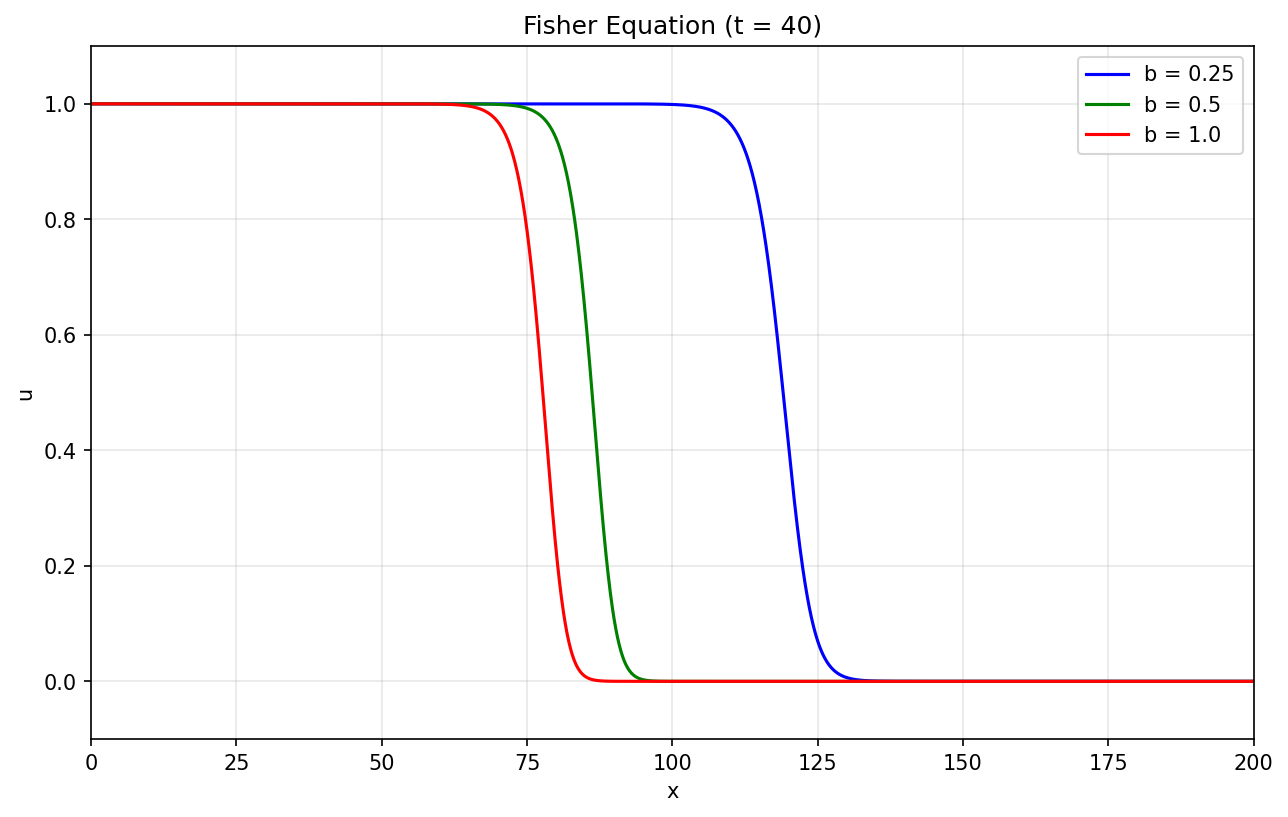
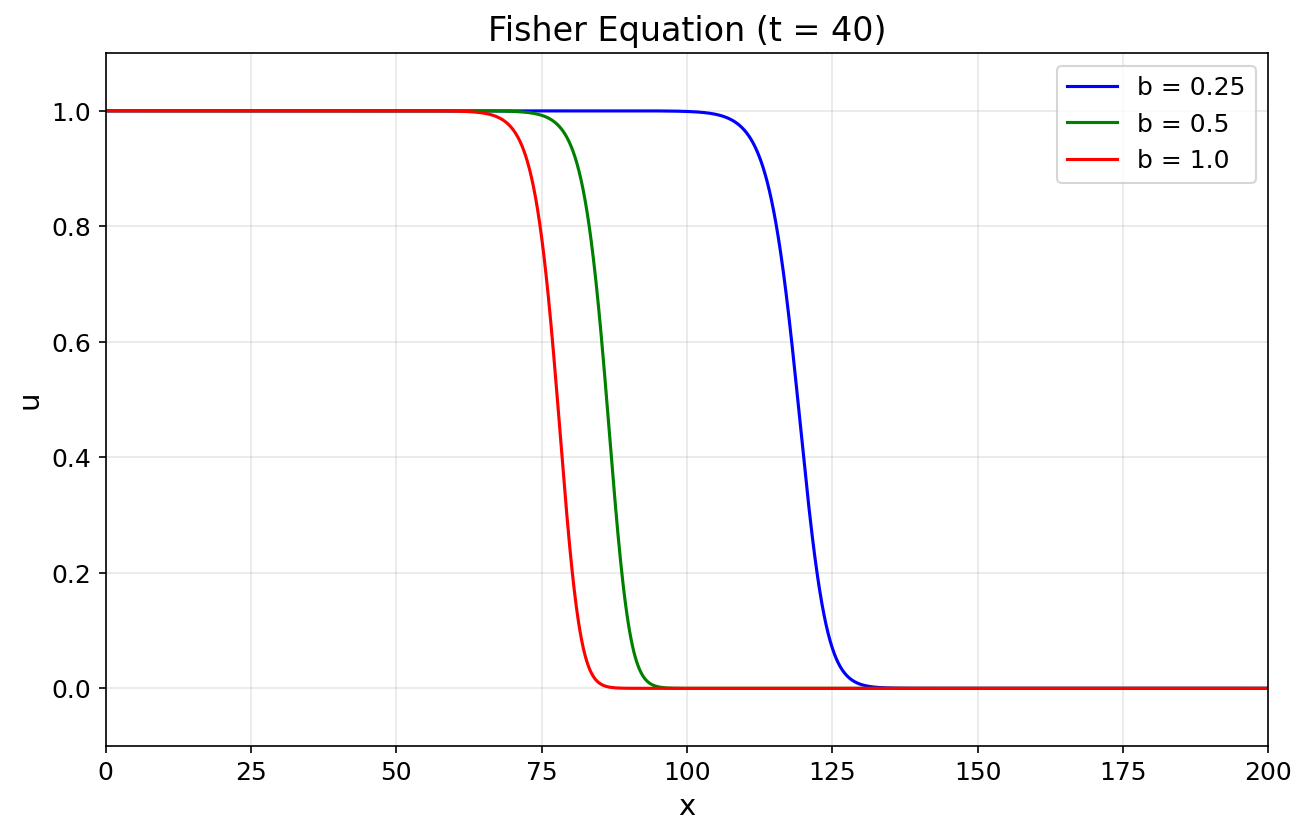
コード完成

diff --git a/7/task2.py b/7/task2.py
@@ -1,7 +1,24 @@
 import math
 import matplotlib.pyplot as plt
 from pathlib import Path
-from typing import List, Tuple
+from typing import List, Tuple, Optional
+
+def find_u_half_point(x_vals: List[float], u_vals: List[float]) -> Optional[float]:
+    """
+    u = 0.5 となる x 座標を線形補間で求める。
+    複数ある場合は最初に見つかったものを返す。
+    """
+    for i in range(len(u_vals) - 1):
+        # u が 0.5 を跨ぐ点を探す
+        if (u_vals[i] - 0.5) * (u_vals[i+1] - 0.5) <= 0:
+            # 線形補間で x 座標を求める
+            if u_vals[i+1] != u_vals[i]:
+                t = (0.5 - u_vals[i]) / (u_vals[i+1] - u_vals[i])
+                x_half = x_vals[i] + t * (x_vals[i+1] - x_vals[i])
+                return x_half
+            else:
+                return x_vals[i]
+    return None
 
 def u0_fisher(x: float, b: float) -> float:
     """
@@ -142,13 +159,15 @@ def main():
             x_vals, u_vals = all_results[b][t]
             plt.plot(x_vals, u_vals, color=colors[str(b)], label=f'b = {b}', linewidth=1.5)
         
-        plt.xlabel('x')
-        plt.ylabel('u')
-        plt.title(f'Fisher Equation (t = {t})')
-        plt.legend()
+        plt.xlabel('x', fontsize=14)
+        plt.ylabel('u', fontsize=14)
+        plt.title(f'Fisher Equation (t = {t})', fontsize=16)
+        plt.legend(fontsize=12)
         plt.grid(True, alpha=0.3)
         plt.xlim(0, 200)
         plt.ylim(-0.1, 1.1)
+        plt.xticks(fontsize=12)
+        plt.yticks(fontsize=12)
         
         plt.savefig(output_dir / f"fisher_t{t}.png", dpi=150, bbox_inches='tight')
         plt.close()
@@ -159,17 +178,35 @@ def main():
         plt.figure(figsize=(10, 6))
         time_colors = {0: 'black', 10: 'blue', 20: 'green', 30: 'orange', 40: 'red'}
         
-        for t in times:
+        for idx, t in enumerate(times):
             x_vals, u_vals = all_results[b][t]
             plt.plot(x_vals, u_vals, color=time_colors[t], label=f't = {t}', linewidth=1.5)
+            
+            # u = 0.5 となる点を探してプロット
+            x_half = find_u_half_point(x_vals, u_vals)
+            if x_half is not None:
+                plt.plot(x_half, 0.5, 'o', color='black', markersize=8)
+                # 上下交互に配置（偶数インデックスは上、奇数インデックスは下）
+                if idx % 2 == 0:
+                    y_offset = 0.15
+                else:
+                    y_offset = -0.15
+                plt.annotate(f'({x_half:.2f}, 0.5)', 
+                           xy=(x_half, 0.5), 
+                           xytext=(x_half + 5, 0.5 + y_offset),
+                           fontsize=12,
+                           color='black',
+                           arrowprops=dict(arrowstyle='->', color='black', lw=0.5))
         
-        plt.xlabel('x')
-        plt.ylabel('u')
-        plt.title(f'Fisher Equation (b = {b})')
-        plt.legend()
+        plt.xlabel('x', fontsize=14)
+        plt.ylabel('u', fontsize=14)
+        plt.title(f'Fisher Equation (b = {b})', fontsize=16)
+        plt.legend(fontsize=12)
         plt.grid(True, alpha=0.3)
         plt.xlim(0, 200)
         plt.ylim(-0.1, 1.1)
+        plt.xticks(fontsize=12)
+        plt.yticks(fontsize=12)
         
         plt.savefig(output_dir / f"fisher_b{str(b).replace('.', '_')}.png", dpi=150, bbox_inches='tight')
         plt.close()

diff --git a/7/task3.py b/7/task3.py
@@ -119,6 +119,7 @@ for idx, t in enumerate(output_times_original):
     ax.set_ylabel('$P(x,t)$')
     ax.set_title(f'$t = {t}$')
     ax.set_xlim(-L/2, L/2)
+    ax.set_ylim(0, 1.2)
     ax.grid(True, alpha=0.3)
 
 plt.tight_layout()
@@ -139,6 +140,7 @@ for idx, (t, label) in enumerate(zip(output_times_pi, pi_labels)):
     ax.set_ylabel('$P(x,t)$')
     ax.set_title(f'$t = {label}$')
     ax.set_xlim(-L/2, L/2)
+    ax.set_ylim(0, 1.2)
     ax.grid(True, alpha=0.3)
 
 plt.tight_layout()
